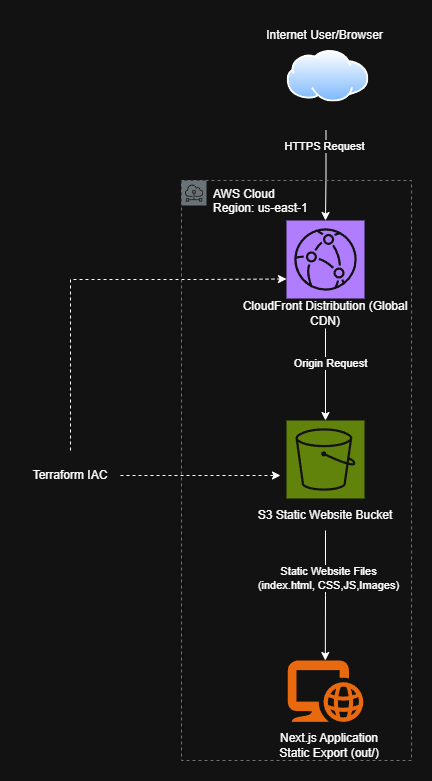
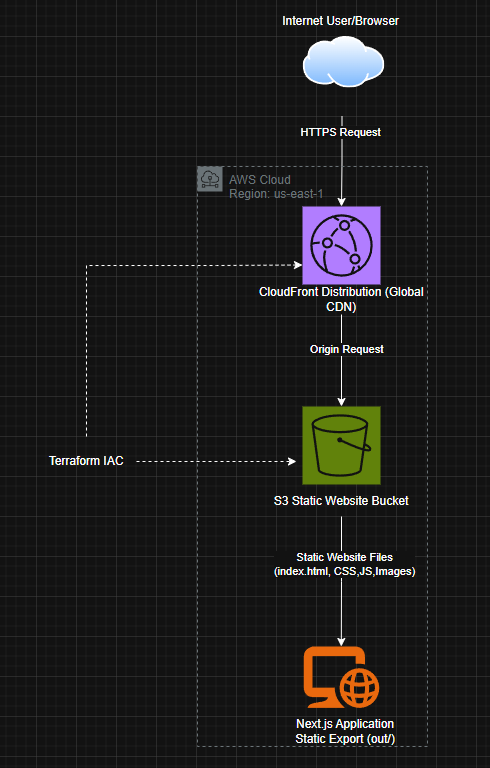
Add architecture diagram to README

diff --git a/README.md b/README.md
@@ -2,9 +2,9 @@
 
 This project deploys a static Next.js portfolio website on AWS using Terraform.
 
-# Architecture
+## Architecture
 
-User → CloudFront → S3 Static Website Bucket → Next.js Static Export
+![Architecture Diagram](Architecture.png)
 
 # Technologies Used
 